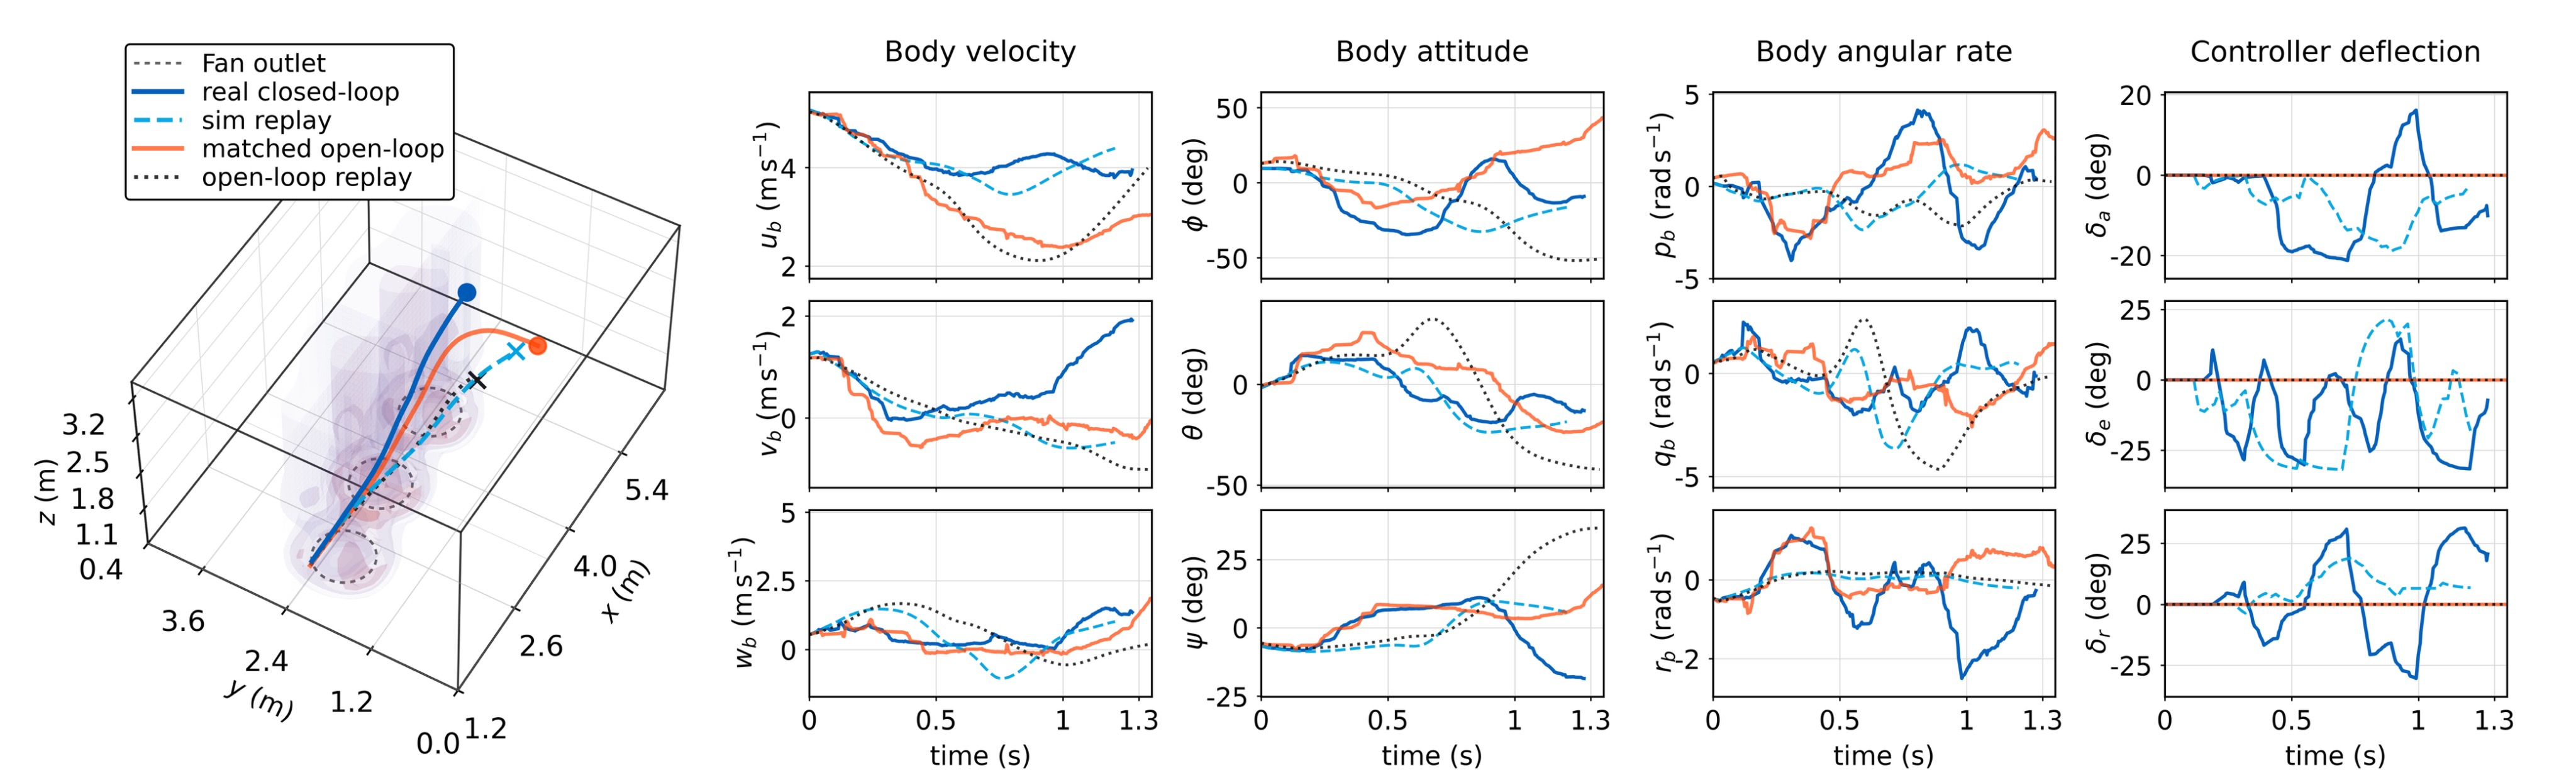
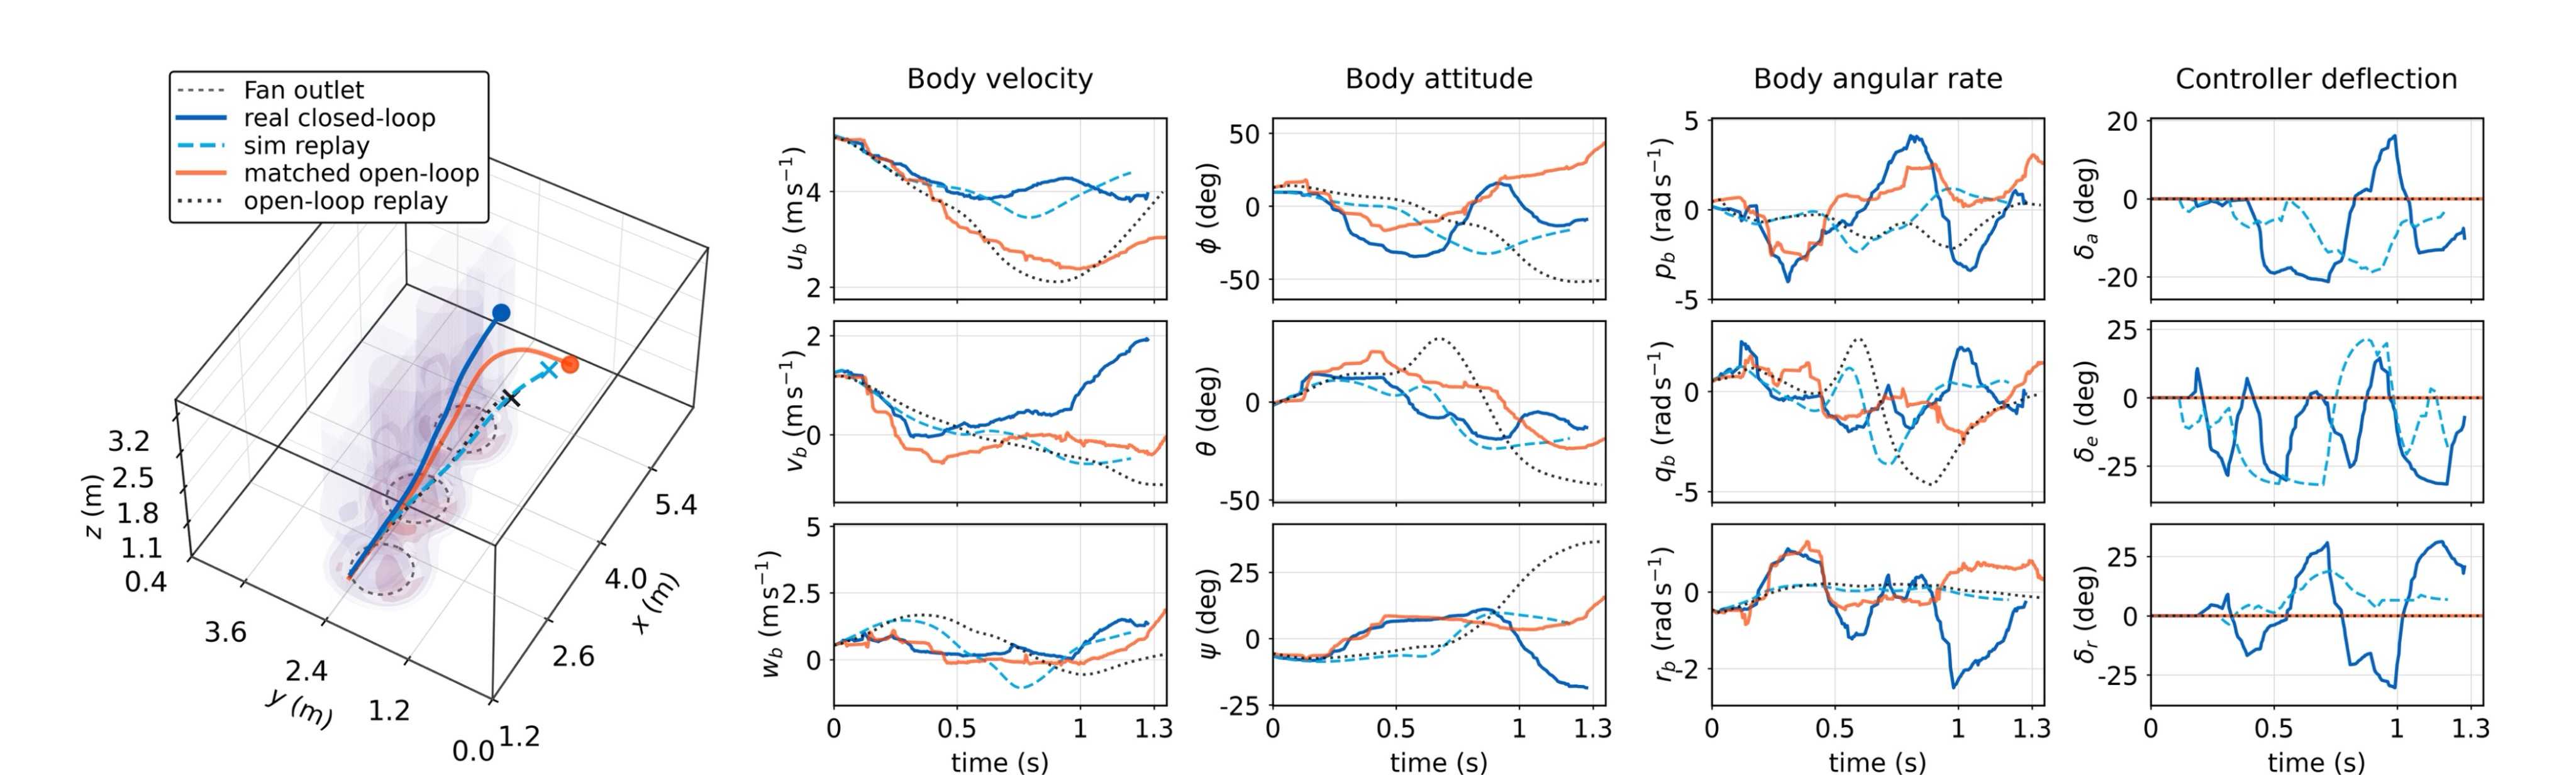
Update README.md

diff --git a/README.md b/README.md
@@ -1,3 +1,4 @@
+
 <p align="center">
   <sub>A thesis submitted to the Department of Aeronautics</sub><br>
   <sub>in partial fulfilment of the requirements for the degree of</sub><br>
@@ -19,6 +20,19 @@ assets/readme/glider_hardware.png           # manufactured fifth iteration glide
 assets/readme/mission_geometry.png          # launch gate, safe volume, and exit face, similar to Fig. 6.1
 assets/readme/random_layout_replay.png      # representative random fan layout replay, similar to Figs. 7.3-7.4
 -->
+
+<!--
+Suggested optional README image assets. Add these later if desired, then uncomment the image blocks in the relevant sections.
+
+assets/readme/overview.png                  # thesis roadmap, similar to Fig. 1.1
+assets/readme/flight_arena_system.png       # Vicon / command / glider system architecture, similar to Fig. 3.4
+assets/readme/updraft_surrogate.png         # measured and fitted updraft fields, similar to Figs. 4.8-4.10
+assets/readme/glider_hardware.png           # manufactured fifth iteration glider, similar to Fig. 5.3
+assets/readme/mission_geometry.png          # launch gate, safe volume, and exit face, similar to Fig. 6.1
+assets/readme/random_layout_replay.png      # representative random fan layout replay, similar to Figs. 7.3-7.4
+-->
+
+<br>
 
 <p align="center">
   <a href="LICENSE">
@@ -50,42 +64,63 @@ assets/readme/random_layout_replay.png      # representative random fan layout r
   </picture>
 </p>
 
-<!--
-Suggested optional README image assets. Add these later if desired, then uncomment the image blocks in the relevant sections.
-
-assets/readme/overview.png                  # thesis roadmap, similar to Fig. 1.1
-assets/readme/flight_arena_system.png       # Vicon / command / glider system architecture, similar to Fig. 3.4
-assets/readme/updraft_surrogate.png         # measured and fitted updraft fields, similar to Figs. 4.8-4.10
-assets/readme/glider_hardware.png           # manufactured fifth iteration glider, similar to Fig. 5.3
-assets/readme/mission_geometry.png          # launch gate, safe volume, and exit face, similar to Fig. 6.1
-assets/readme/random_layout_replay.png      # representative random fan layout replay, similar to Figs. 7.3-7.4
--->
-
 <br>
 
 ## Overview
 
-Nausicaa is a reproducible research repository for an indoor fixed wing sim-to-real flight experiment. The project studies whether a small hand-launched glider can use a controller developed in simulation to repeatedly cross an indoor flight volume containing uncertain updrafts.
+Nausicaa is a reproducible research repository for an indoor fixed-wing sim-to-real flight experiment. The project studies whether a small hand-launched glider can use a controller developed in simulation to repeatedly cross an indoor flight volume containing uncertain fan-generated updrafts.
 
-The controller is built around **viability-guided manoeuvre primitive selection**. Instead of tracking one long planned trajectory through an uncertain flow field, the glider selects short stabilised manoeuvre primitives every `0.10 s`. Each primitive is generated, replayed, and validated offline. Online selection then uses stored evidence about entry compatibility, continuation probability, hard failure risk, safety margin, useful lift exposure, energy change, and timing feasibility.
-
-The repository accompanies the thesis:
+The controller is built around **viability-guided manoeuvre primitive selection**. Instead of tracking one long planned trajectory through an uncertain flow field, the glider selects short stabilised manoeuvre primitives every `0.10 s`. Each primitive is generated, replayed, and validated offline. Online selection then uses stored evidence about entry compatibility, continuation probability, hard-failure risk, safety margin, useful lift exposure, energy change, and timing feasibility.
+![Example](assets/readme/Example.jpg)
+<p align="center">
+  <sup><em>Example result: the controller keeps the glider flying through a real uncertain updraft, while a comparable open-loop launch fails and the simulation replay shows visible reality gap.</em></sup>
+</p>
+This repository accompanies the thesis:
 
 ```text
 Hanchen Li. Viability-Guided Sim-to-Real Transfer for a Small Fixed-Wing Glider in Uncertain Indoor Updrafts.
 MEng thesis, Department of Aeronautics, Imperial College London, 2026.
-```
+````
+Nausicaa is organised as a workflow archive. It contains source code, configuration files, processed datasets, calibration artefacts, frozen controller inputs, plotting scripts, measurement logs, and reproducibility instructions for the thesis figures, tables, and experiments.
 
-The repository is organised as a workflow archive. It contains source code, configuration files, processed datasets, calibration artefacts, frozen controller inputs, plotting scripts, measurement logs, and reproducibility instructions for the thesis figures, tables, and experiments.
 
 ## Highlights
 
-- Indoor fixed wing sim-to-real workflow using Vicon motion capture, offboard control, measured command latency, fan-generated updrafts, and a manufactured foam/carbon glider.
-- Updraft characterisation from spatially scanned hot-wire anemometer measurements, followed by harmonic annular Gaussian and residual Gaussian-process surrogate modelling.
-- Control-oriented 6-DoF glider model with panelwise aerodynamic loading, compact residual calibration, actuator timing, and domain randomisation.
-- Short-horizon primitive library with finite-horizon LQR stabilisation and validation-based admissibility checks.
-- Medoid library compression that preserves validated primitive objects rather than creating synthetic controllers.
-- Real flight transfer tests across still air, fixed fan layouts, and randomised three-fan / four-fan challenge layouts.
+- **A repeatable indoor flight problem.**  
+  The project turns uncertain outdoor lift exploitation into a controlled laboratory experiment. A small hand-launched glider must cross a bounded indoor flight volume while fan-generated updrafts can either help it stay aloft or push it toward failure.
+
+- **A complete experimental workflow, not just a controller.**  
+  The repository includes the pieces needed to make the flight tests repeatable: Vicon motion capture, offboard computation, a radio-control command path, measured sensing and actuator delays, a safety-bounded arena, and the manufactured foam/carbon glider.
+
+![Example](assets/readme/3.2.2.jpg)
+<p align="center">
+  <sup><em>Example result: the controller keeps the glider flying through a real uncertain updraft, while a comparable open-loop launch fails and the simulation replay shows visible reality gap.</em></sup>
+</p>
+
+![Example](assets/readme/e4a_matched_reality_replay_openloop_composite.png)
+<p align="center">
+  <sup><em>Example result: the controller keeps the glider flying through a real uncertain updraft, while a comparable open-loop launch fails and the simulation replay shows visible reality gap.</em></sup>
+</p>
+
+
+- **A measured but imperfect updraft model.**  
+  The indoor flow is not assumed to be an ideal wind field. Fan-generated updrafts are measured with a scanned hot-wire anemometer, fitted with compact surrogate models, and then randomised during controller development so the final controller is not tuned to one perfect flow map.
+
+- **A real glider model connected to the hardware.**  
+  The simulation model is built around the manufactured aircraft rather than an abstract vehicle. It uses measured mass properties, centre of gravity, actuator timing, flight calibration data, and panelwise aerodynamic loading to capture the main behaviour of the glider while remaining fast enough for large validation runs.
+
+- **Control by short tested manoeuvres.**  
+  Instead of planning one long trajectory through an uncertain flow field, the controller repeatedly chooses short `0.10 s` manoeuvre primitives. Each primitive has already been simulated and labelled with its entry conditions, likely exit outcome, failure risk, safety margin, lift exposure, energy change, and timing cost.
+
+- **A flight-ready controller library.**  
+  The dense primitive library is compressed into a smaller set of representative validated manoeuvres. This keeps the online controller fast enough for real flight while avoiding the creation of synthetic controllers that were never tested.
+
+- **Real flight transfer beyond the validation cases.**  
+  The final tests compare open-loop and closed-loop flight in still air, fixed fan layouts, and randomised fan layouts. In the random layouts that were not used during controller validation, closed-loop control substantially improves mission success over open-loop flight.
+
+- **A clear limit on what did not help much.**  
+  The repository also includes the spatial memory component and its logs, but the evidence shows that memory is not the main reason the system transfers. The main reusable result is the measured workflow plus the viability-guided primitive controller.
+
 
 ## Main results
 